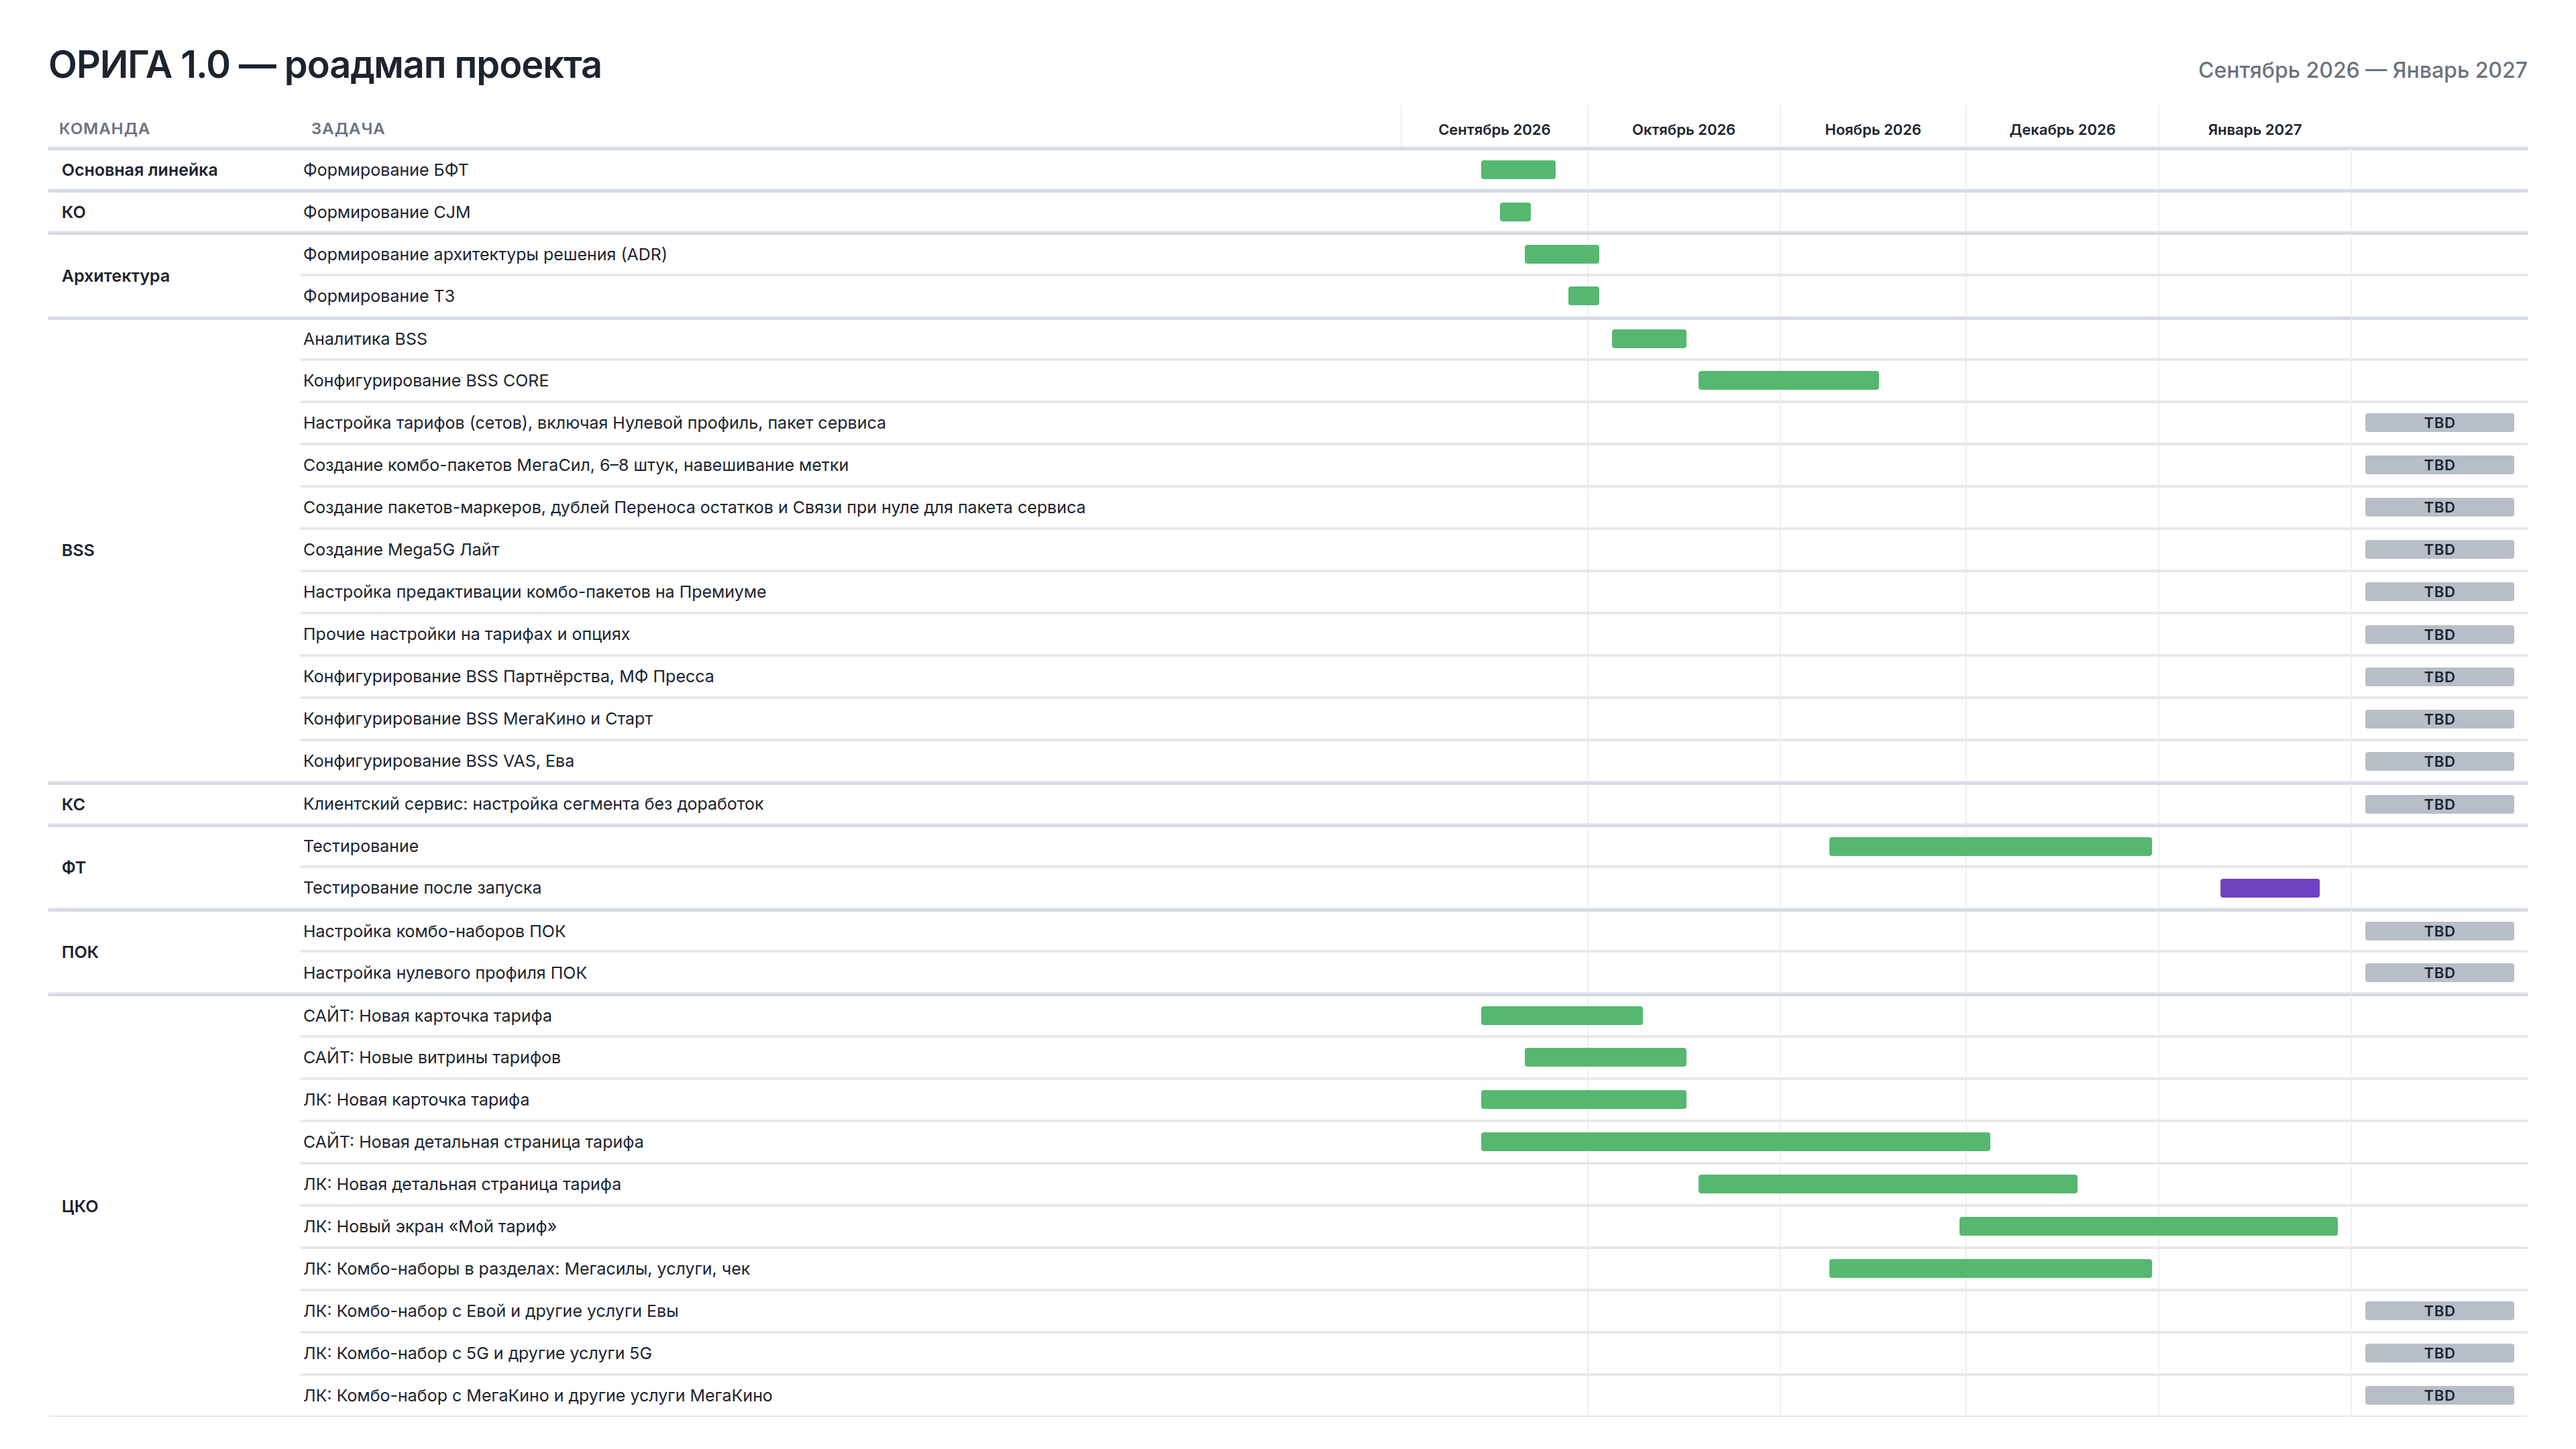
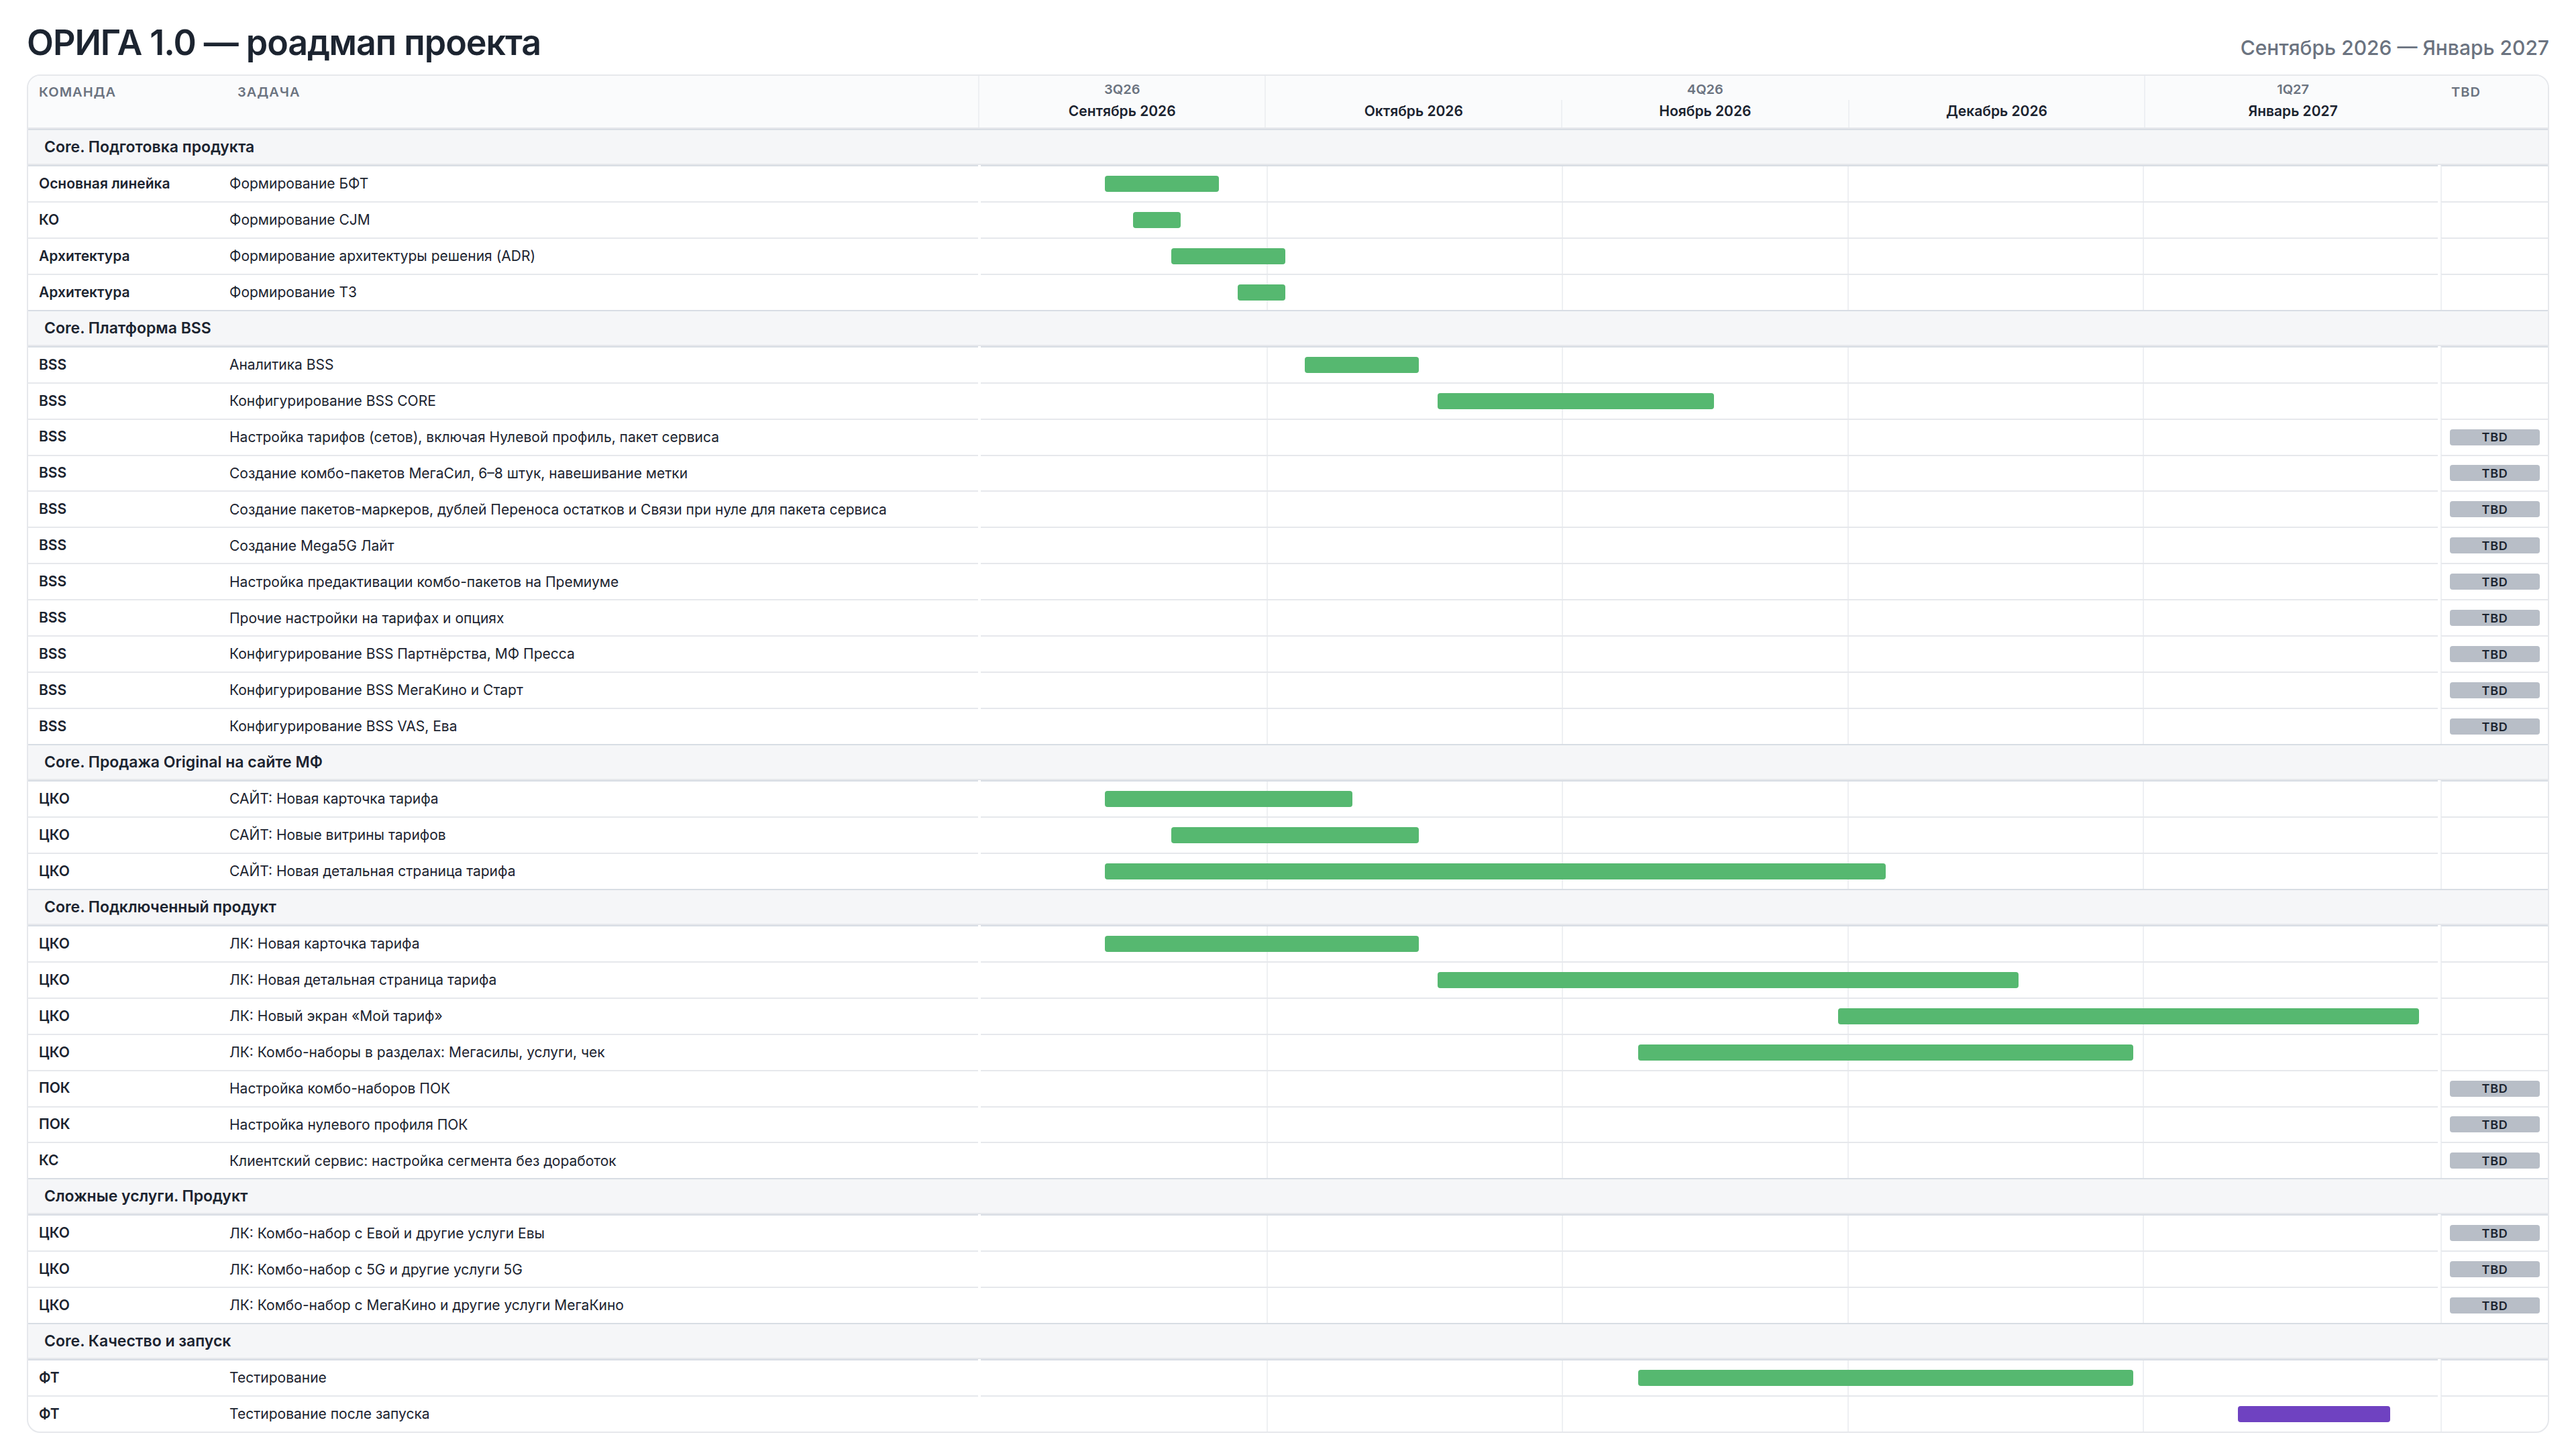
Fit the Origa roadmap to the page and drop phase labels.
Discovery and Delivery share one timeline, so dated work is a single bar. The slide now fills the viewport instead of a fixed 1920×1080 canvas.

Changed region(s): [[0.0, 0.0, 1.0, 0.9926], [0.0, 0.3722, 0.0312, 0.4653], [0.0, 0.3102, 0.0312, 0.3412]]

diff --git a/roadmap/data.js b/roadmap/data.js
@@ -7,17 +7,17 @@ window.ROADMAP_DATA = {
     {
       title: 'Core. Подготовка продукта',
       rows: [
-        { team: 'Основная линейка', task: 'Формирование БФТ', start: '2026-09-14', end: '2026-09-25', phase: 'discovery' },
-        { team: 'КО', task: 'Формирование CJM', start: '2026-09-17', end: '2026-09-21', phase: 'discovery' },
-        { team: 'Архитектура', task: 'Формирование архитектуры решения (ADR)', start: '2026-09-21', end: '2026-10-02', phase: 'discovery' },
-        { team: 'Архитектура', task: 'Формирование ТЗ', start: '2026-09-28', end: '2026-10-02', phase: 'discovery' },
+        { team: 'Основная линейка', task: 'Формирование БФТ', start: '2026-09-14', end: '2026-09-25' },
+        { team: 'КО', task: 'Формирование CJM', start: '2026-09-17', end: '2026-09-21' },
+        { team: 'Архитектура', task: 'Формирование архитектуры решения (ADR)', start: '2026-09-21', end: '2026-10-02' },
+        { team: 'Архитектура', task: 'Формирование ТЗ', start: '2026-09-28', end: '2026-10-02' },
       ],
     },
     {
       title: 'Core. Платформа BSS',
       rows: [
-        { team: 'BSS', task: 'Аналитика BSS', start: '2026-10-05', end: '2026-10-16', phase: 'discovery' },
-        { team: 'BSS', task: 'Конфигурирование BSS CORE', start: '2026-10-19', end: '2026-11-16', phase: 'delivery' },
+        { team: 'BSS', task: 'Аналитика BSS', start: '2026-10-05', end: '2026-10-16' },
+        { team: 'BSS', task: 'Конфигурирование BSS CORE', start: '2026-10-19', end: '2026-11-16' },
         { team: 'BSS', task: 'Настройка тарифов (сетов), включая Нулевой профиль, пакет сервиса', tbd: true },
         { team: 'BSS', task: 'Создание комбо-пакетов МегаСил, 6–8 штук, навешивание метки', tbd: true },
         { team: 'BSS', task: 'Создание пакетов-маркеров, дублей Переноса остатков и Связи при нуле для пакета сервиса', tbd: true },
@@ -32,18 +32,18 @@ window.ROADMAP_DATA = {
     {
       title: 'Core. Продажа Original на сайте МФ',
       rows: [
-        { team: 'ЦКО', task: 'САЙТ: Новая карточка тарифа', start: '2026-09-14', end: '2026-10-09', phase: 'delivery' },
-        { team: 'ЦКО', task: 'САЙТ: Новые витрины тарифов', start: '2026-09-21', end: '2026-10-16', phase: 'delivery' },
-        { team: 'ЦКО', task: 'САЙТ: Новая детальная страница тарифа', start: '2026-09-14', end: '2026-12-04', phase: 'delivery' },
+        { team: 'ЦКО', task: 'САЙТ: Новая карточка тарифа', start: '2026-09-14', end: '2026-10-09' },
+        { team: 'ЦКО', task: 'САЙТ: Новые витрины тарифов', start: '2026-09-21', end: '2026-10-16' },
+        { team: 'ЦКО', task: 'САЙТ: Новая детальная страница тарифа', start: '2026-09-14', end: '2026-12-04' },
       ],
     },
     {
       title: 'Core. Подключенный продукт',
       rows: [
-        { team: 'ЦКО', task: 'ЛК: Новая карточка тарифа', start: '2026-09-14', end: '2026-10-16', phase: 'delivery' },
-        { team: 'ЦКО', task: 'ЛК: Новая детальная страница тарифа', start: '2026-10-19', end: '2026-12-18', phase: 'delivery' },
-        { team: 'ЦКО', task: 'ЛК: Новый экран «Мой тариф»', start: '2026-11-30', end: '2027-01-29', phase: 'delivery' },
-        { team: 'ЦКО', task: 'ЛК: Комбо-наборы в разделах: Мегасилы, услуги, чек', start: '2026-11-09', end: '2026-12-30', phase: 'delivery' },
+        { team: 'ЦКО', task: 'ЛК: Новая карточка тарифа', start: '2026-09-14', end: '2026-10-16' },
+        { team: 'ЦКО', task: 'ЛК: Новая детальная страница тарифа', start: '2026-10-19', end: '2026-12-18' },
+        { team: 'ЦКО', task: 'ЛК: Новый экран «Мой тариф»', start: '2026-11-30', end: '2027-01-29' },
+        { team: 'ЦКО', task: 'ЛК: Комбо-наборы в разделах: Мегасилы, услуги, чек', start: '2026-11-09', end: '2026-12-30' },
         { team: 'ПОК', task: 'Настройка комбо-наборов ПОК', tbd: true },
         { team: 'ПОК', task: 'Настройка нулевого профиля ПОК', tbd: true },
         { team: 'КС', task: 'Клиентский сервис: настройка сегмента без доработок', tbd: true },
@@ -60,8 +60,8 @@ window.ROADMAP_DATA = {
     {
       title: 'Core. Качество и запуск',
       rows: [
-        { team: 'ФТ', task: 'Тестирование', start: '2026-11-09', end: '2026-12-30', phase: 'delivery' },
-        { team: 'ФТ', task: 'Тестирование после запуска', start: '2027-01-11', end: '2027-01-26', phase: 'delivery', later: true },
+        { team: 'ФТ', task: 'Тестирование', start: '2026-11-09', end: '2026-12-30' },
+        { team: 'ФТ', task: 'Тестирование после запуска', start: '2027-01-11', end: '2027-01-26', later: true },
       ],
     },
   ],

diff --git a/roadmap/roadmap.css b/roadmap/roadmap.css
@@ -37,8 +37,8 @@
 * { box-sizing: border-box; margin: 0; padding: 0; }
 
 html, body {
-  width: 1920px;
-  height: 1080px;
+  width: 100%;
+  height: 100%;
   overflow: hidden;
   background: #fff;
   color: var(--ink);
@@ -46,9 +46,9 @@ html, body {
 }
 
 .slide {
-  width: 1920px;
-  height: 1080px;
-  padding: 28px 32px 18px;
+  width: 100vw;
+  height: 100vh;
+  padding: 16px 20px 12px;
   display: flex;
   flex-direction: column;
   background: #fff;
@@ -58,7 +58,8 @@ html, body {
   display: flex;
   align-items: baseline;
   justify-content: space-between;
-  margin-bottom: 10px;
+  margin-bottom: 8px;
+  flex: 0 0 auto;
 }
 
 h1 {
@@ -74,14 +75,16 @@ h1 {
 }
 
 .chart {
-  flex: 1;
+  flex: 1 1 auto;
   min-height: 0;
+  height: 100%;
   display: grid;
-  grid-template-columns: 148px 548px minmax(0, 1fr) 112px;
-  align-content: start;
+  grid-template-columns: 148px minmax(500px, 560px) minmax(0, 1fr) 80px;
+  grid-template-rows: auto;
+  grid-auto-rows: minmax(0, 1fr);
   background: #fff;
   border: 1px solid var(--line);
-  border-radius: 12px;
+  border-radius: 10px;
   overflow: hidden;
 }
 
@@ -126,13 +129,16 @@ h1 {
 
 .block-title {
   grid-column: 1 / -1;
-  padding: 5px 12px;
+  padding: 0 12px;
   background: var(--block);
   border-top: 1px solid #d8dde4;
   border-bottom: 1px solid var(--line);
   font-size: 11.5px;
   font-weight: 600;
   color: var(--ink);
+  display: flex;
+  align-items: center;
+  min-height: 0;
 }
 
 .block-title:first-of-type {
@@ -140,7 +146,7 @@ h1 {
 }
 
 .team, .task, .lane, .tbd-cell {
-  min-height: 27px;
+  min-height: 0;
   border-top: 1px solid var(--line);
   display: flex;
   align-items: center;
@@ -157,6 +163,7 @@ h1 {
   padding: 0 8px 0 2px;
   font-size: 10.5px;
   line-height: 1.12;
+  min-width: 0;
   white-space: nowrap;
 }
 
@@ -198,23 +205,6 @@ h1 {
 }
 
 .bar.later { background: var(--purple); }
-
-.phase {
-  position: absolute;
-  top: 50%;
-  margin-top: -8px;
-  padding: 1px 6px;
-  border-radius: 10px;
-  font-size: 9px;
-  font-weight: 600;
-  letter-spacing: 0.02em;
-  color: #fff;
-  white-space: nowrap;
-  transform: translateX(-4px);
-}
-
-.phase.discovery { background: #3f8f57; }
-.phase.delivery { background: #46965d; }
 
 .tbd-cell {
   border-left: 1px solid var(--grid);

diff --git a/roadmap/render.js b/roadmap/render.js
@@ -16,12 +16,6 @@
     return { left, width, style: `left:${left.toFixed(4)}%;width:${width.toFixed(4)}%` };
   }
 
-  function phaseLabel(phase) {
-    if (phase === 'discovery') return 'Discovery';
-    if (phase === 'delivery') return 'Delivery';
-    return '';
-  }
-
   function esc(s) {
     return String(s)
       .replace(/&/g, '&amp;')
@@ -71,9 +65,8 @@
         return;
       }
       const cls = row.later ? 'bar later' : 'bar';
-      const label = phaseLabel(row.phase);
       const geom = barGeom(row);
-      html += `<div class="lane${group}"><i class="${cls}" style="${geom.style}"></i>${label ? `<span class="phase ${row.phase}" style="left:calc(${geom.left.toFixed(4)}% + 4px)">${label}</span>` : ''}</div>`;
+      html += `<div class="lane${group}"><i class="${cls}" style="${geom.style}"></i></div>`;
       html += `<div class="tbd-cell${group}"></div>`;
     });
   });
